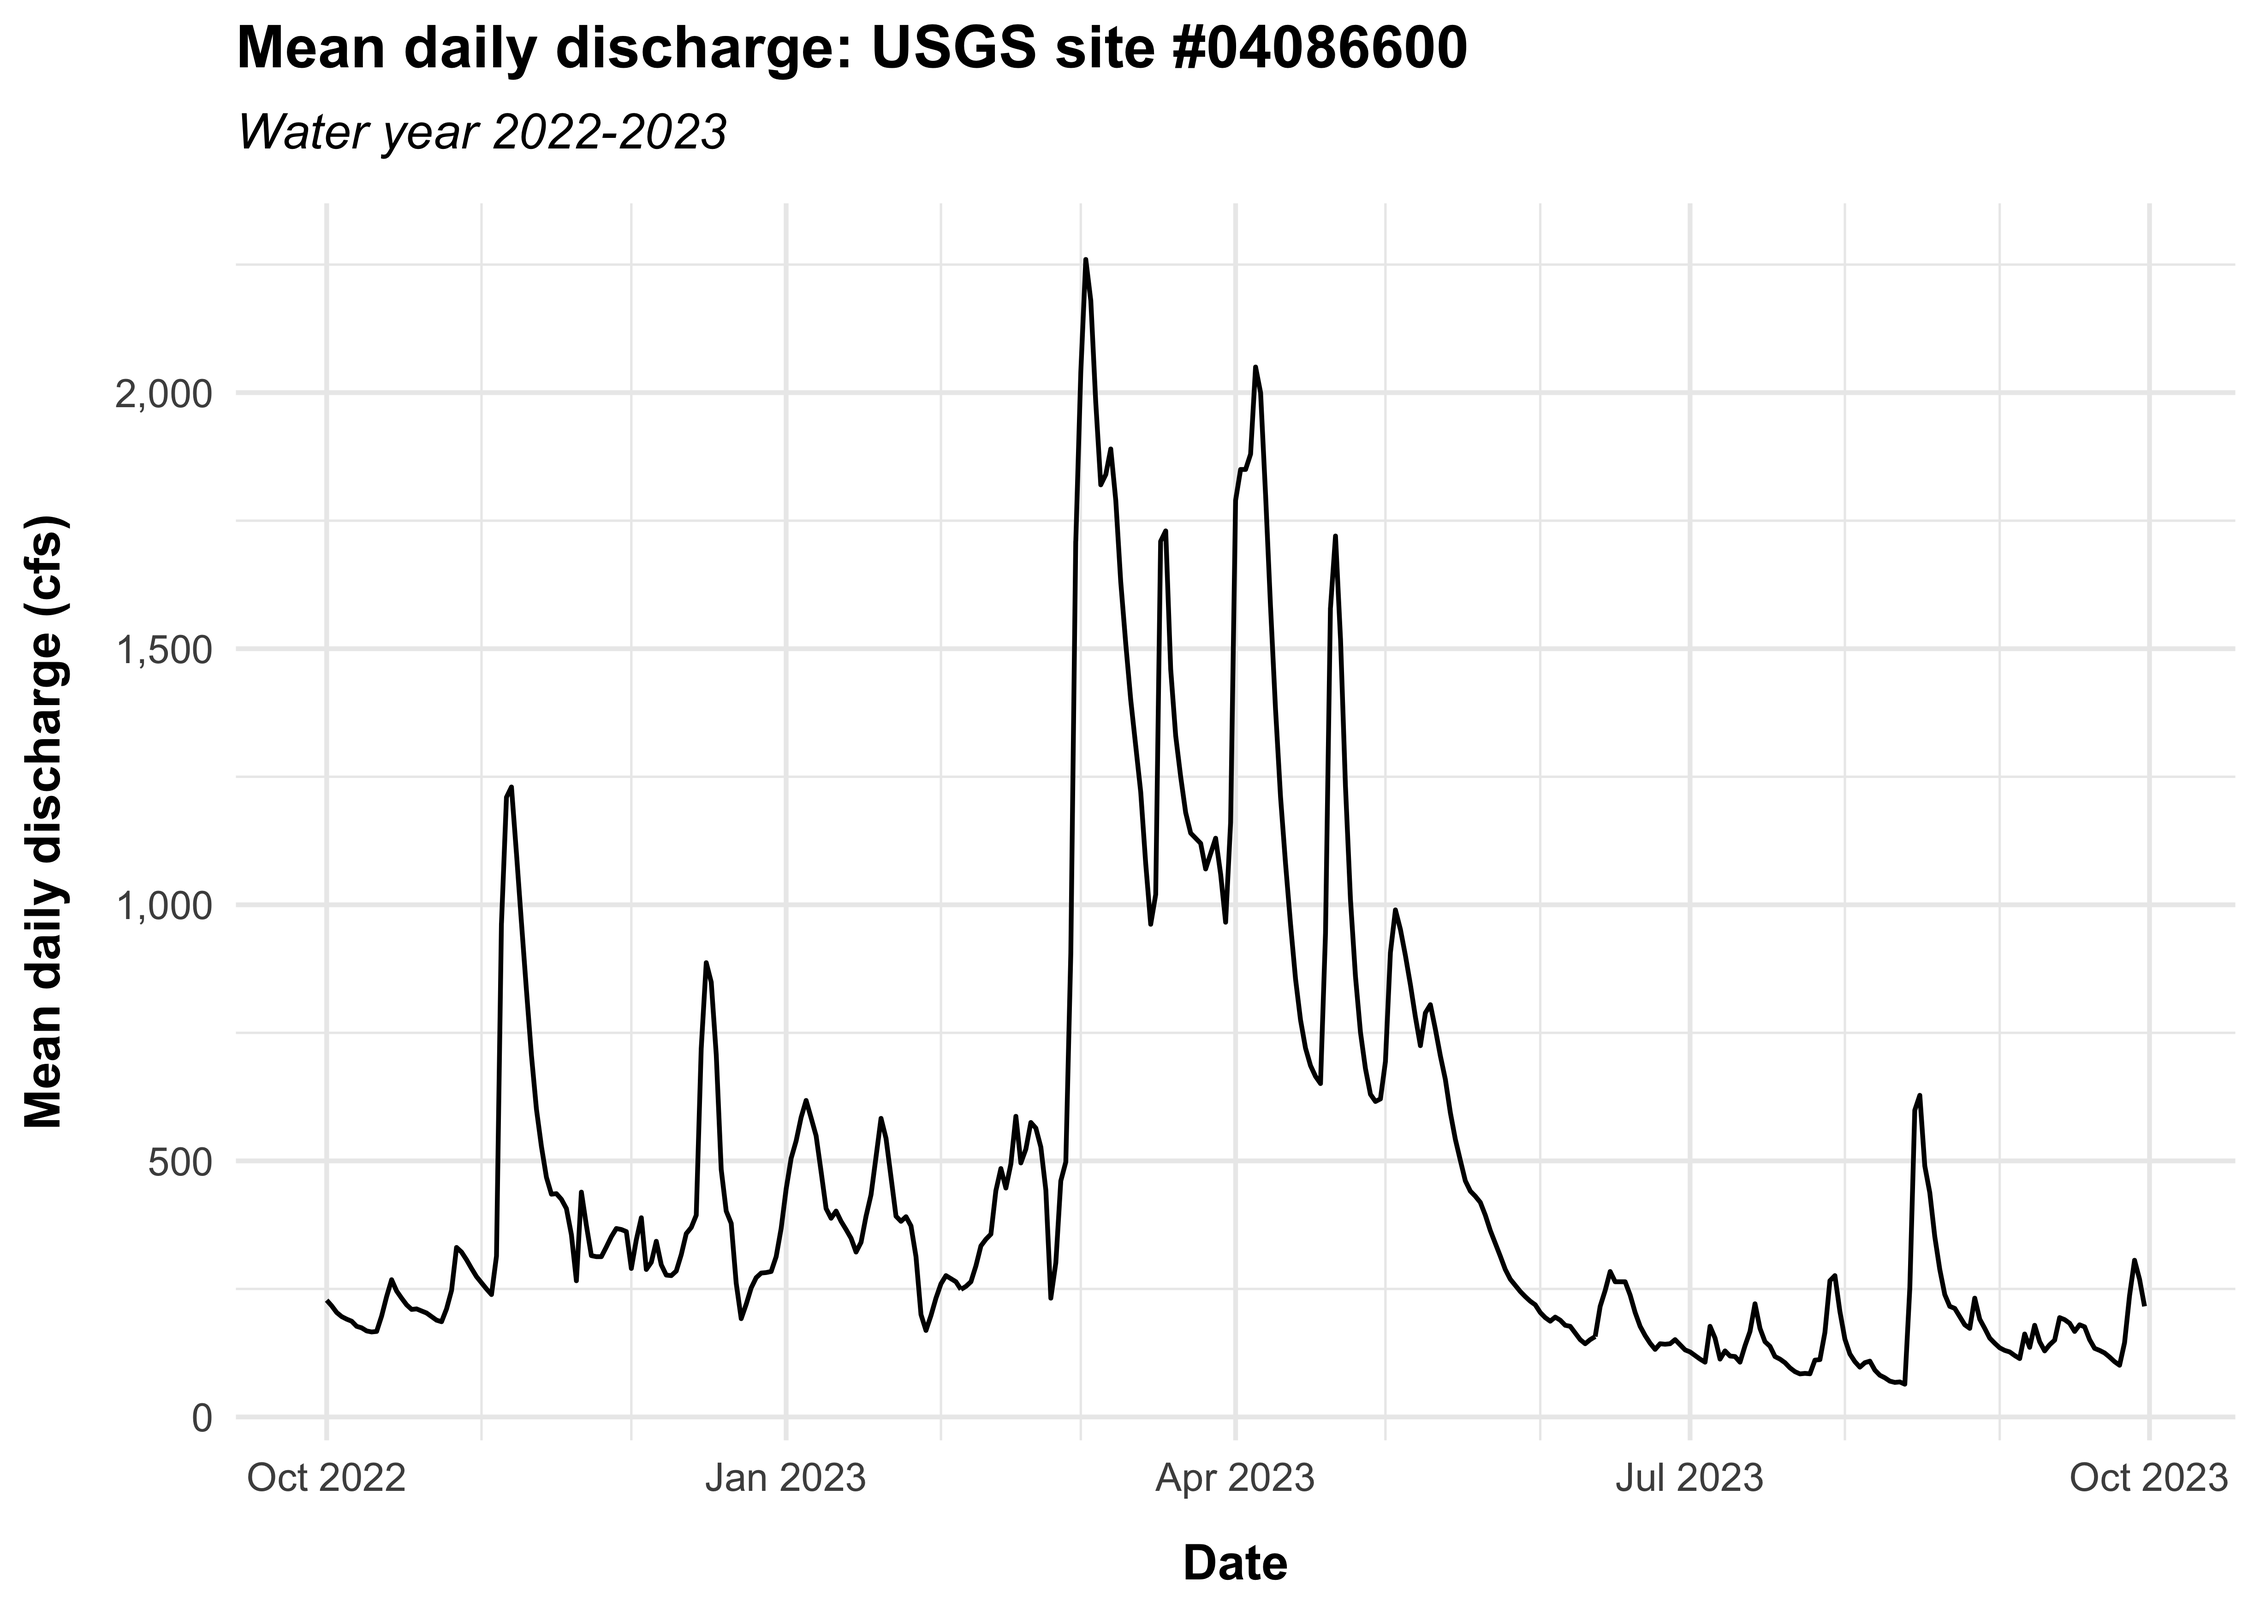
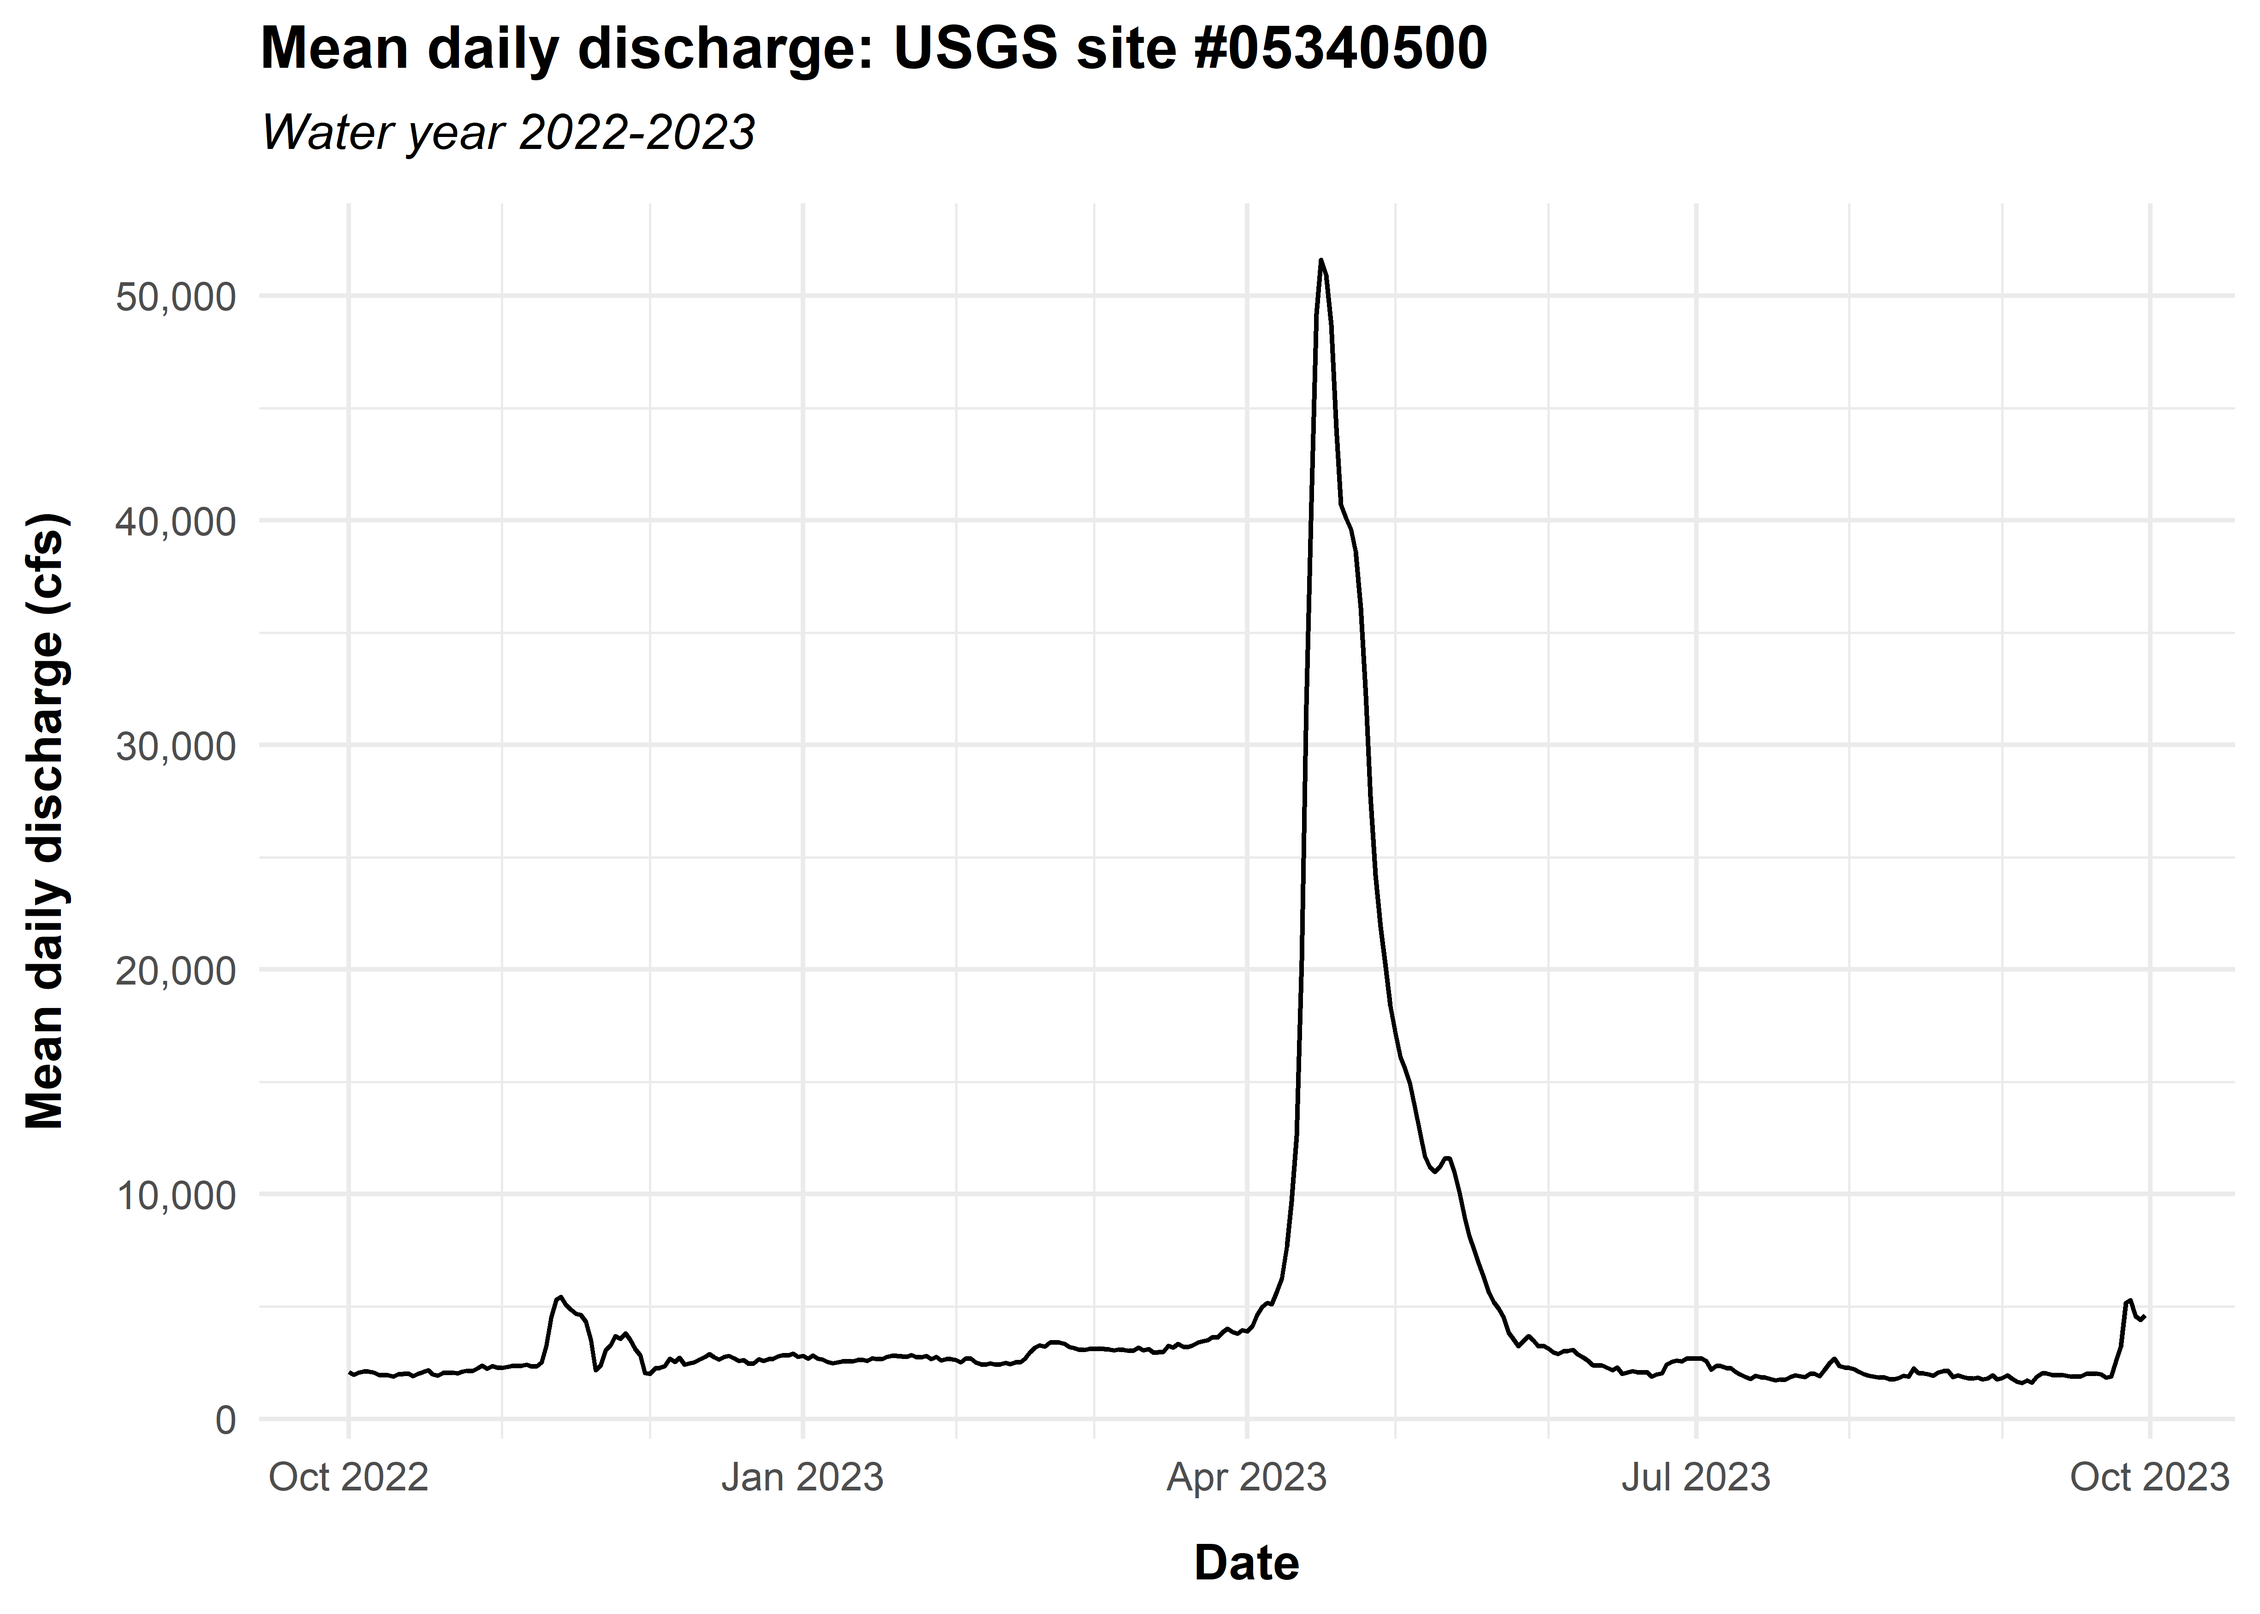
update analysis to use new station number, which has temperature data available

diff --git a/README.md b/README.md
@@ -10,12 +10,12 @@ that addresses this prompt:
 
 *You are working on an annual report of discharge and water temperature
 at the* *Milwaukee River near Cedarburg, Wisconsin, site
-\#USGS-04086600. Your tasks* *are: a) download the daily data for stream
+\#USGS-05340500. Your tasks* *are: a) download the daily data for stream
 discharge and water temperature* *between Oct 1, 2022 and Sept 30, 2023;
 b) create time-series plots of the* *data, one for each variable.*
 
 ``` r
-site <- "04086600"
+site <- "05340500"
 
 start_date <- lubridate::as_date(x = "2022-10-01")
 end_date <- lubridate::as_date(x = "2023-09-30")
@@ -70,40 +70,34 @@ knitr::kable(available_data, format = "pipe")
 
 | site_no | data_type_cd | parm_cd | stat_cd | begin_date | end_date | count_nu | description |
 |:---|:---|:---|:---|:---|:---|---:|:---|
-| 04086600 | dv | 00060 | 00003 | 1981-11-01 | 2025-02-11 | 15809 | Discharge, cubic feet per second, mean, 1 day |
-| 04086600 | qw | 00010 | NA | 2007-09-18 | 2019-09-06 | 9 | Temperature, water, degrees Celsius |
-| 04086600 | qw | 00010 | NA | 2008-07-23 | 2009-09-04 | 2 | Temperature, water, degrees Celsius |
-| 04086600 | qw | 00010 | NA | 1981-11-18 | 2018-06-12 | 90 | Temperature, water, degrees Celsius |
-| 04086600 | qw | 00060 | NA | 1993-09-14 | 2008-12-22 | 13 | Discharge, cubic feet per second, mean, 1 day |
-| 04086600 | qw | 00061 | NA | 2007-09-18 | 2013-08-19 | 4 | Discharge, instantaneous, cubic feet per second |
-| 04086600 | qw | 00061 | NA | 1981-11-18 | 2009-07-21 | 200 | Discharge, instantaneous, cubic feet per second |
-| 04086600 | qw | 30208 | NA | 1993-09-14 | 2008-12-22 | 13 | Discharge, cubic meters per second, mean, 1 day |
-| 04086600 | qw | 30209 | NA | 2007-09-18 | 2013-08-19 | 4 | Discharge, instantaneous, cubic meters per second |
-| 04086600 | qw | 30209 | NA | 1981-11-18 | 2009-07-21 | 200 | Discharge, instantaneous, cubic meters per second |
-| 04086600 | uv | 00060 | NA | 1986-10-01 | 2025-02-12 | 14014 | Discharge, cubic feet per second, mean, 1 day |
+| 05340500 | dv | 00010 | 00001 | 2000-01-21 | 2025-02-18 | 8648 | Temperature, water, degrees Celsius |
+| 05340500 | dv | 00010 | 00002 | 2000-01-21 | 2025-02-18 | 8648 | Temperature, water, degrees Celsius |
+| 05340500 | dv | 00010 | 00003 | 2000-01-21 | 2025-02-18 | 8747 | Temperature, water, degrees Celsius |
+| 05340500 | dv | 00060 | 00003 | 1902-01-01 | 2025-02-18 | 43317 | Discharge, cubic feet per second, mean, 1 day |
+| 05340500 | qw | 00010 | NA | 1968-06-03 | 1968-06-03 | 1 | Temperature, water, degrees Celsius |
+| 05340500 | qw | 00010 | NA | 1966-11-06 | 2003-10-16 | 280 | Temperature, water, degrees Celsius |
+| 05340500 | qw | 00060 | NA | 1966-11-06 | 1968-06-03 | 3 | Discharge, cubic feet per second, mean, 1 day |
+| 05340500 | qw | 00060 | NA | 1966-11-06 | 1999-02-12 | 32 | Discharge, cubic feet per second, mean, 1 day |
+| 05340500 | qw | 00061 | NA | 1974-10-02 | 2003-10-16 | 279 | Discharge, instantaneous, cubic feet per second |
+| 05340500 | qw | 30208 | NA | 1966-11-06 | 1968-06-03 | 3 | Discharge, cubic meters per second, mean, 1 day |
+| 05340500 | qw | 30208 | NA | 1966-11-06 | 1999-02-12 | 32 | Discharge, cubic meters per second, mean, 1 day |
+| 05340500 | qw | 30209 | NA | 1974-10-02 | 2003-10-16 | 279 | Discharge, instantaneous, cubic meters per second |
+| 05340500 | uv | 00010 | NA | 2007-10-01 | 2025-02-19 | 6351 | Temperature, water, degrees Celsius |
+| 05340500 | uv | 00060 | NA | 1982-10-05 | 2025-02-19 | 15478 | Discharge, cubic feet per second, mean, 1 day |
 
-Looking at this dataframe of available data, it appears that water
-temperature data are not available for the period of interest (water
-year 2022-2023). To confirm that I have not excluded important parameter
-codes or otherwise interpreted information incorrectly, I viewed the
-[station
-information](https://waterdata.usgs.gov/nwis/inventory/?site_no=04086600&agency_cd=USGS&)
-in the NWIS graphical user web interface. The NWIS web interface page
-for this site confirms that only discharge, chloride, suspended sediment
-concentration, suspended sediment discharge, and phosphorus are
-currently sampled daily; water temperature sampling has occurred as part
-of a discrete sampling program, but no observations are available for
-the study period.
+Looking at this dataframe of available data, it appears that mean daily
+water temperature and discharge data are available. Since I plan on
+using the function `readNWISdv()`, which assumes the statistic code
+“00003,” I don’t feel the need to look more specifically at statistic
+codes.
 
 ## Data pull
 
 Next, I pulled daily mean discharge in cubic feet per second using the
-`readNWISdv()` function and the appropriate parameter code. To be extra
-sure that I’m not accidentally missing water temperature data, I also
-attempted to pull water temperature data with the appropriate parameter
-code. I could have combined the flow and temperature pulls, but to be
-clear for the purposes of this analysis, I pulled each parameter of
-interest separately.
+`readNWISdv()` function and the appropriate parameter codes. I could
+have combined the flow and temperature pulls, but to be clear for the
+purposes of this analysis, I pulled each parameter of interest
+separately.
 
 ``` r
 flow_parameter_code <- "00060" # daily mean discharge in cfs
@@ -133,24 +127,24 @@ dplyr::glimpse(flow)
     Rows: 365
     Columns: 5
     $ agency_cd        <chr> "USGS", "USGS", "USGS", "USGS", "USGS", "USGS", "USGS…
-    $ site_no          <chr> "04086600", "04086600", "04086600", "04086600", "0408…
+    $ site_no          <chr> "05340500", "05340500", "05340500", "05340500", "0534…
     $ Date             <date> 2022-10-01, 2022-10-02, 2022-10-03, 2022-10-04, 2022…
-    $ X_00060_00003    <dbl> 228, 217, 204, 196, 191, 187, 177, 174, 168, 166, 167…
+    $ X_00060_00003    <dbl> 2090, 1970, 2070, 2100, 2110, 2060, 1970, 1940, 1940,…
     $ X_00060_00003_cd <chr> "A", "A", "A", "A", "A", "A", "A", "A", "A", "A", "A"…
 
-Next, let’s view the water temperature data pull results. As expected,
-the water temperature dataframe was empty.
+Next, let’s view the water temperature data pull results.
 
 ``` r
 dplyr::glimpse(temp)
 ```
 
-    Rows: 0
-    Columns: 4
-    $ agency_cd <chr> 
-    $ site_no   <chr> 
-    $ dateTime  <dttm> 
-    $ tz_cd     <chr> 
+    Rows: 365
+    Columns: 5
+    $ agency_cd        <chr> "USGS", "USGS", "USGS", "USGS", "USGS", "USGS", "USGS…
+    $ site_no          <chr> "05340500", "05340500", "05340500", "05340500", "0534…
+    $ Date             <date> 2022-10-01, 2022-10-02, 2022-10-03, 2022-10-04, 2022…
+    $ X_00010_00003    <dbl> 13.9, 14.4, 14.9, 15.6, 16.4, 16.4, 15.5, 13.9, 12.6,…
+    $ X_00010_00003_cd <chr> "A", "A", "A", "A", "A", "A", "A", "A", "A", "A", "A"…
 
 ## Cleaning
 
@@ -165,13 +159,19 @@ flow <- flow |>
     flow_cfs = X_00060_00003,
     qual_code = X_00060_00003_cd
   )
+
+temp <- temp |>
+  dplyr::rename(
+    agency_code = agency_cd,
+    date = Date,
+    temp_c = X_00010_00003,
+    qual_code = X_00010_00003_cd
+  )
 ```
 
 ## Visualization
 
-Lastly, I visualized the data, as the prompt requested. I decided
-against “visualizing” the empty water temperature data with an empty
-plot for the sake of time, though that’s certainly possible to do.
+Lastly, I visualized the data as time series, as the prompt requested.
 
 ``` r
 # In this script I have defaulted to fully qualifying function calls for
@@ -204,4 +204,32 @@ ggplot(data = flow) +
 ```
 
 <img src="README_files/figure-commonmark/visualize-1.png"
+style="width:100.0%" />
+
+``` r
+ggplot(data = temp) +
+  geom_line(aes(x = date, y = temp_c)) +
+  scale_x_date(
+    name = "Date",
+    minor_breaks = "1 month",
+    date_labels = "%b %Y"
+  ) +
+  scale_y_continuous(
+    name = "Mean daily water temperature (°C)",
+    breaks = scales::pretty_breaks(n = 10)
+  ) +
+  labs(
+    title = glue::glue("Mean water temperature: USGS site #{site}"),
+    subtitle = "Water year 2022-2023"
+  ) +
+  theme_minimal() +
+  theme(
+    plot.title = element_text(face = "bold", margin = margin(b = 7.5)),
+    plot.subtitle = element_text(face = "italic", margin = margin(b = 10)),
+    axis.title.x = element_text(face = "bold", margin = margin(t = 10)),
+    axis.title.y = element_text(face = "bold", margin = margin(r = 10))
+  )
+```
+
+<img src="README_files/figure-commonmark/visualize-2.png"
 style="width:100.0%" />
